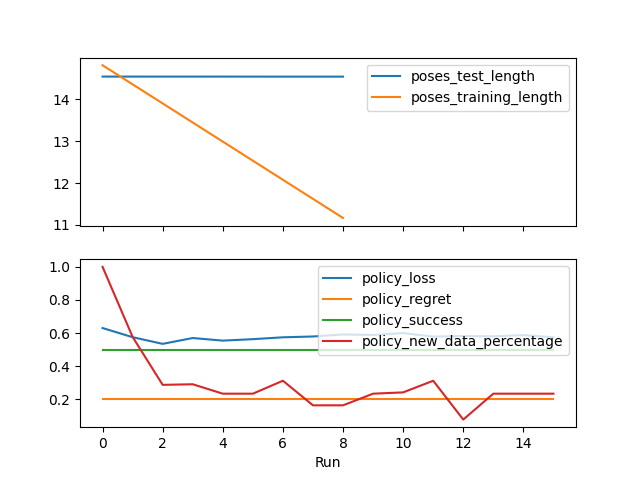
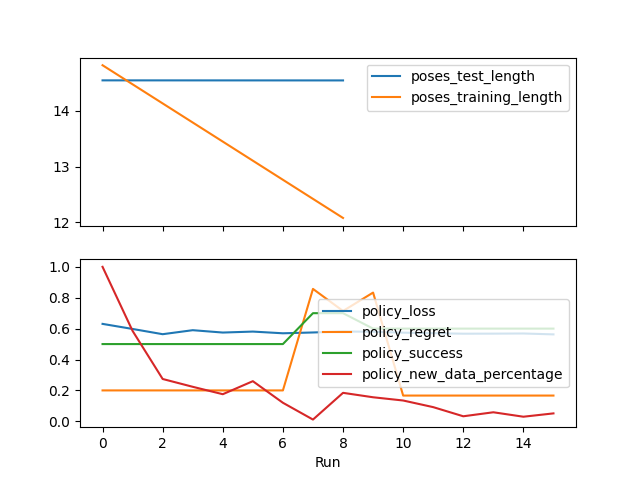
using always all the data to learn

diff --git a/multi_optim/multi_optim.py b/multi_optim/multi_optim.py
@@ -104,10 +104,11 @@ def eval_policy(model, g: nx.Graph, env_nx: nx.Graph, n_agents, n_eval, rng
 
 
 def optimize_policy(model, g: nx.Graph, n_agents, n_data_learn_policy,
-                    n_epochs, optimizer, old_ds, pool, rng):
+                    n_epochs, optimizer, data_files, pool, prefix, rng):
     ds = dagger.DaggerStrategy(
-        model, g, n_epochs, n_agents, n_data_learn_policy, optimizer, rng)
-    model, loss, new_data_perc, old_ds = ds.run_dagger(pool, old_ds)
+        model, g, n_epochs, n_agents,
+        n_data_learn_policy, optimizer, prefix, rng)
+    model, loss, new_data_perc, data_files = ds.run_dagger(pool, data_files)
 
     rng_test = Random(1)
     # little less agents for evaluation
@@ -115,7 +116,7 @@ def optimize_policy(model, g: nx.Graph, n_agents, n_data_learn_policy,
     regret, success = eval_policy(
         model, g, ds.env_nx, eval_n_agents, 10, rng_test)
 
-    return model, loss, regret, success, new_data_perc, old_ds
+    return model, loss, regret, success, new_data_perc, data_files
 
 
 def run_optimization(
@@ -135,7 +136,7 @@ def run_optimization(
     torch.manual_seed(rng.randint(0, 2 ** 32))
 
     # multiprocessing
-    n_processes = min(tmp.cpu_count(), 8)
+    n_processes = min(tmp.cpu_count(), 2)
     pool = tmp.Pool(processes=n_processes)
 
     # Roadmap
@@ -148,6 +149,7 @@ def run_optimization(
     if torch.cuda.is_available():
         logger.info("Using GPU")
         gpu = torch.device("cuda:0")
+        torch.cuda.set_per_process_memory_fraction(1./(n_processes+2), gpu)
     else:
         logger.warning("GPU not available, using CPU")
         gpu = torch.device("cpu")
@@ -161,7 +163,7 @@ def run_optimization(
     # policy_model.share_memory()
     optimizer_policy = torch.optim.Adam(
         policy_model.parameters(), lr=lr_policy)
-    old_ds = []
+    policy_data_files = []
 
     # Visualization and analysis
     stats = StatCollector([
@@ -213,10 +215,10 @@ def run_optimization(
 
         # Optimizing Policy
         if i_r % n_runs_per_run_policy == 0:
-            (policy_model, policy_loss, regret, success, new_data_perc, old_ds
+            (policy_model, policy_loss, regret, success, new_data_perc, policy_data_files
              ) = optimize_policy(
                 policy_model, g, n_agents, n_data_learn_policy,
-                n_epochs_per_run_policy, optimizer_policy, old_ds, pool, rng)
+                n_epochs_per_run_policy, optimizer_policy, policy_data_files, pool, prefix, rng)
             if i_r % stats_every == 0:
                 stats.add("policy_loss", i_r, float(policy_loss))
                 if regret is not None:
@@ -286,52 +288,52 @@ if __name__ == "__main__":
         prefix="debug")
 
     # tiny run
-    rng = Random(0)
-    logging.getLogger(__name__).setLevel(logging.INFO)
-    logging.getLogger(
-        "planner.mapf_implementations.plan_cbs_roadmap"
-    ).setLevel(logging.INFO)
-    run_optimization(
-        n_nodes=16,
-        n_runs_pose=2,
-        n_runs_policy=128,
-        n_data_learn_policy=512,
-        n_epochs_per_run_policy=16,
-        stats_every=1,
-        lr_pos=1e-4,
-        lr_policy=1e-3,
-        n_agents=4,
-        map_fname="roadmaps/odrm/odrm_eval/maps/x.png",
-        rng=rng,
-        prefix="tiny")
+    # rng = Random(0)
+    # logging.getLogger(__name__).setLevel(logging.INFO)
+    # logging.getLogger(
+    #     "planner.mapf_implementations.plan_cbs_roadmap"
+    # ).setLevel(logging.INFO)
+    # run_optimization(
+    #     n_nodes=16,
+    #     n_runs_pose=2,
+    #     n_runs_policy=128,
+    #     n_data_learn_policy=512,
+    #     n_epochs_per_run_policy=16,
+    #     stats_every=1,
+    #     lr_pos=1e-4,
+    #     lr_policy=1e-3,
+    #     n_agents=4,
+    #     map_fname="roadmaps/odrm/odrm_eval/maps/x.png",
+    #     rng=rng,
+    #     prefix="tiny")
 
     # checking different metaparams ...
-    diffs = {
-        "n_agents": [8],
-        "lr_policy": [3e-3, 3e-4],
-        "n_epochs_per_run_policy": [32, 64],
-        "n_data_learn_policy": [1024, 2048],
-    }
-    def_n_agents = 6
-    def_lr_policy = 1e-3
-    def_n_epochs_per_run_policy = 16
-    def_n_data_learn_policy = 512
-    for k, vs in diffs.items():
-        for v in vs:
-            rng = Random(0)
-            args = {
-                "n_nodes": 16,
-                "n_runs_pose": 2,
-                "n_runs_policy": 128,
-                "n_data_learn_policy": def_n_data_learn_policy,
-                "n_epochs_per_run_policy": def_n_epochs_per_run_policy,
-                "stats_every": 1,
-                "lr_pos": 1e-4,
-                "lr_policy": def_lr_policy,
-                "n_agents": def_n_agents,
-                "map_fname": "roadmaps/odrm/odrm_eval/maps/x.png",
-                "rng": rng,
-                "prefix": f"tiny_{k}_{v}",
-            }
-            args[k] = v
-            run_optimization(**args)
+    # diffs = {
+    #     "n_agents": [8],
+    #     "lr_policy": [3e-3, 3e-4],
+    #     "n_epochs_per_run_policy": [32, 64],
+    #     "n_data_learn_policy": [1024, 2048],
+    # }
+    # def_n_agents = 6
+    # def_lr_policy = 1e-3
+    # def_n_epochs_per_run_policy = 16
+    # def_n_data_learn_policy = 512
+    # for k, vs in diffs.items():
+    #     for v in vs:
+    #         rng = Random(0)
+    #         args = {
+    #             "n_nodes": 16,
+    #             "n_runs_pose": 2,
+    #             "n_runs_policy": 128,
+    #             "n_data_learn_policy": def_n_data_learn_policy,
+    #             "n_epochs_per_run_policy": def_n_epochs_per_run_policy,
+    #             "stats_every": 1,
+    #             "lr_pos": 1e-4,
+    #             "lr_policy": def_lr_policy,
+    #             "n_agents": def_n_agents,
+    #             "map_fname": "roadmaps/odrm/odrm_eval/maps/x.png",
+    #             "rng": rng,
+    #             "prefix": f"tiny_{k}_{v}",
+    #         }
+    #         args[k] = v
+    #         run_optimization(**args)

diff --git a/multi_optim/dagger.py b/multi_optim/dagger.py
@@ -1,11 +1,15 @@
 import copy
 import logging
+import os
+import pickle
 import tracemalloc
 from random import Random
 from typing import Dict, Optional, Tuple
 
 import numpy as np
 import scenarios
+import tools
+import torch
 from definitions import INVALID, SCENARIO_RESULT
 from humanfriendly import format_size
 from planner.policylearn.edge_policy import MODEL_INPUT, EdgePolicyModel
@@ -134,7 +138,7 @@ class DaggerStrategy():
     (https://proceedings.mlr.press/v15/ross11a.html)"""
 
     def __init__(self, model, graph, n_episodes, n_agents, n_data_learn_policy,
-                 optimizer, rng):
+                 optimizer, prefix, rng):
         self.model = model
         self.graph = self._add_self_edges_to_graph(graph)
         self.n_episodes = n_episodes
@@ -143,6 +147,7 @@ class DaggerStrategy():
         self.env_nx = env_to_nx(graph)
         self.rng = rng
         self.optimizer = optimizer
+        self.prefix = prefix
 
     def _add_self_edges_to_graph(self, graph):
         """Add self edges to the graph."""
@@ -151,9 +156,19 @@ class DaggerStrategy():
                 graph.add_edge(node, node)
         return graph
 
-    def run_dagger(self, pool, old_ds):
+    def _get_data_folder(self):
+        return f"multi_optim/results/{self.prefix}_data"
+
+    def _get_path_data(self, hash):
+        folder = self._get_data_folder()
+        if not os.path.exists(folder):
+            os.makedirs(folder)
+        return folder+f"/{hash}.pkl"
+
+    def run_dagger(self, pool, data_files):
         """Run the DAgger algorithm."""
         loss_s = []
+        data_lengths = []
 
         logger.debug("Memory usage, current: " +
                      str(format_size(tracemalloc.get_traced_memory()[0])) +
@@ -168,37 +183,56 @@ class DaggerStrategy():
         params = [(s, self.graph, self.n_agents, self.env_nx,
                    model_copy) for s in self.rng.sample(
             range(2**32), k=self.n_episodes)]
-        results_s = pool.imap_unordered(
-            sample_trajectory_proxy, params
-        )
+        generation_hash = tools.hasher([], {
+            "seeds": [p[0] for p in params],
+            "self.graph": self.graph,
+            "self.n_agents": self.n_agents
+            # env_nx is not needed, because it depends on the graph
+        })
+        new_fname = self._get_path_data(generation_hash)
 
-        new_data_n = 0
-        for results in results_s:
-            new_data_n += len(results)
-            for r in results:
-                x, edge_index = r[0]
-                this_data = Data(x=x,
-                                 edge_index=edge_index, y=r[1])
-                if len(old_ds) < self.n_data_learn_policy:
-                    old_ds.append(this_data)
-                else:
-                    old_ds[self.rng.randint(
-                        0, len(old_ds) - 1)] = this_data
+        if os.path.exists(new_fname):
+            logger.debug("Loading data from file")
+            with open(new_fname, "rb") as f:
+                new_ds = pickle.load(f)
+        else:
+            results_s = pool.imap_unordered(
+                sample_trajectory_proxy, params
+            )
 
-        # how much data is new?
-        new_data_perc = float(new_data_n) / len(old_ds)
-
-        if new_data_perc > 0.5:
-            logging.warning(f"{new_data_perc*100}% new data points")
+            new_ds = []
+            for results in results_s:
+                for r in results:
+                    x, edge_index = r[0]
+                    this_data = Data(x=x,
+                                     edge_index=edge_index, y=r[1])
+                    new_ds.append(this_data)
+            with open(new_fname, "wb") as f:
+                pickle.dump(new_ds, f)
 
         # learn
-        ds = self.rng.sample(old_ds, min(len(old_ds), N_LEARN_MAX))
+        # first of the current data
+        data_lengths.append(len(new_ds))
         loss = self.model.learn(
-            ds, optimizer=self.optimizer)
+            new_ds, optimizer=self.optimizer)
         if loss is not None:
             loss_s.append(loss)
-        del ds
+        # then learn from files
+        for fname in data_files:
+            with open(fname, "rb") as f:
+                ds = pickle.load(f)
+            data_lengths.append(len(ds))
+            loss = self.model.learn(
+                ds, optimizer=self.optimizer)
+            if loss is not None:
+                loss_s.append(loss)
+
+        # after learning add new file
+        data_files.append(new_fname)
+
+        # statistics
+        new_data_perc = len(new_ds) / sum(data_lengths)
 
         if len(loss_s) == 0:
-            return self.model, np.mean([0])
-        return self.model, np.mean(loss_s), new_data_perc, old_ds
+            loss_s = [0]
+        return self.model, np.mean(loss_s), new_data_perc, data_files
